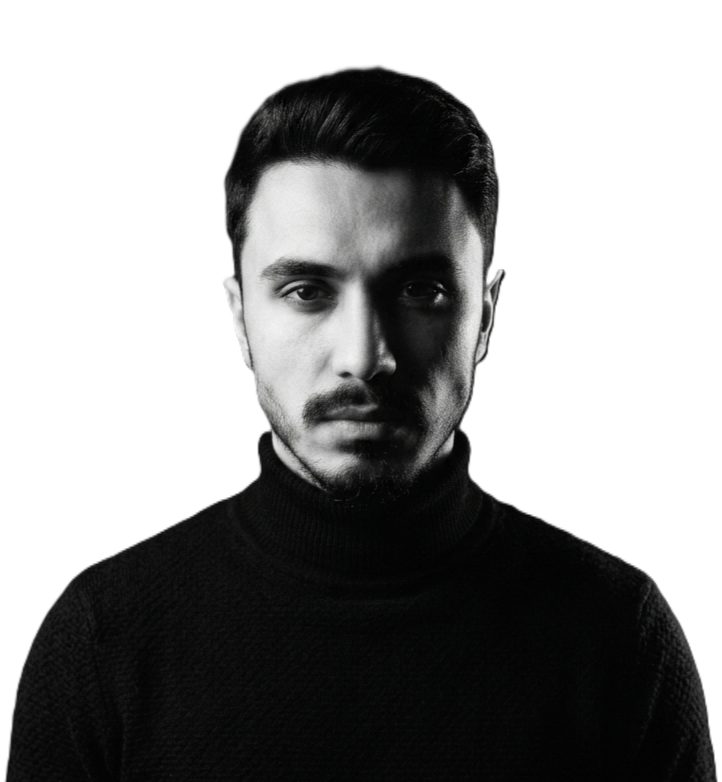
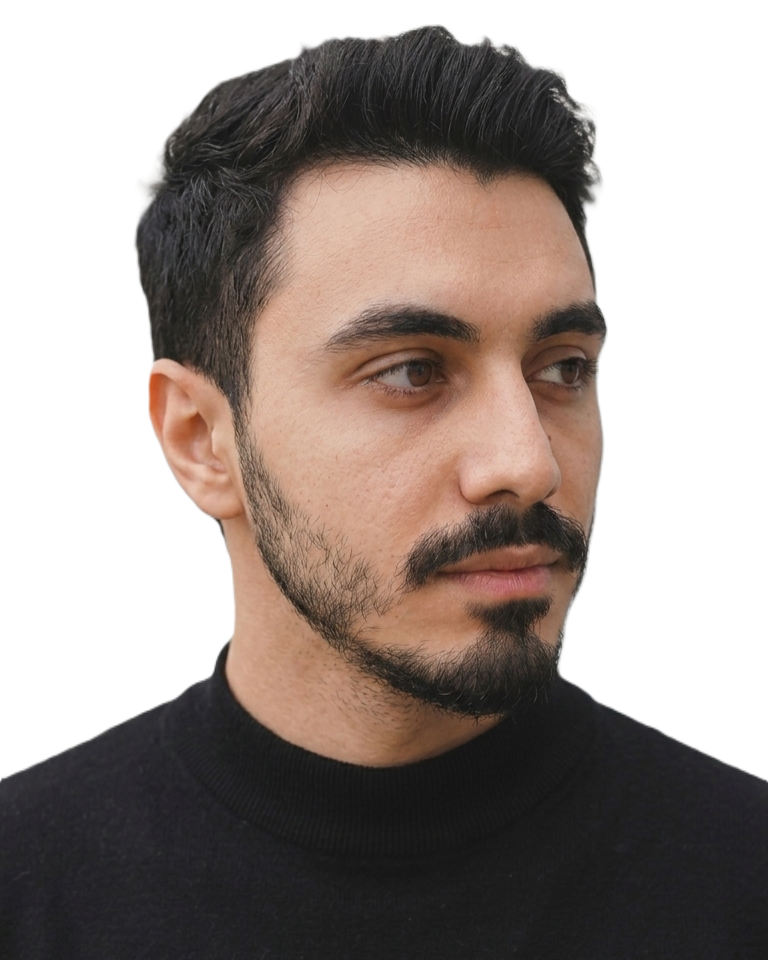
Corrigindo comentários no JavaScript

diff --git a/assets/js/script.js b/assets/js/script.js
@@ -3,12 +3,12 @@
   var reduce = !!(window.matchMedia && window.matchMedia('(prefers-reduced-motion: reduce)').matches);
   root.classList.add('js');
 
-  /* Links ainda sem destino não rolam a página para o topo */
+  // Links ainda sem destino não rolam a página para o topo
   Array.prototype.forEach.call(document.querySelectorAll('a[href="#"]'), function (a) {
     a.addEventListener('click', function (e) { e.preventDefault(); });
   });
 
-  /* Efeito de digitar e apagar */
+  // Efeito de digitar e apagar
   var typed = document.getElementById('typed');
   var phrases = ['Desenvolvedor Back-end.', 'Computação em nuvem.', 'Transformando sistemas.'];
   var pi = 0, ci = phrases[0].length, deleting = true;
@@ -23,7 +23,7 @@
   }
   if (typed && !reduce) { setTimeout(tick, 2200); }
 
-  /* Atraso escalonado nos grupos de cards */
+  // Atraso escalonado nos grupos de cards
   Array.prototype.forEach.call(document.querySelectorAll('[data-stagger]'), function (group) {
     var step = parseFloat(group.getAttribute('data-stagger')) || 0.09;
     Array.prototype.forEach.call(group.children, function (child, i) {
@@ -31,7 +31,7 @@
     });
   });
 
-  /* Revelação ao rolar */
+  // Revelação ao rolar
   var items = document.querySelectorAll('[data-reveal]');
   if (reduce || !('IntersectionObserver' in window)) {
     Array.prototype.forEach.call(items, function (el) { el.classList.add('is-in'); });
@@ -44,7 +44,7 @@
     Array.prototype.forEach.call(items, function (el) { io.observe(el); });
   }
 
-  /* Projetos extras */
+  // Projetos extras
   var more = document.getElementById('more-projects');
   var toggle = document.getElementById('toggle-projects');
   var label = document.getElementById('toggle-label');
@@ -73,7 +73,7 @@
     }
   });
 
-  /* Menu no celular */
+  // Menu no celular
   var header = document.getElementById('header');
   var menuBtn = document.getElementById('menu-btn');
   var nav = document.getElementById('nav');
@@ -87,7 +87,7 @@
   var links = Array.prototype.slice.call(nav.querySelectorAll('a'));
   links.forEach(function (a) { a.addEventListener('click', function () { setMenu(false); }); });
 
-  /* Link ativo conforme a seção visível */
+  // Link ativo conforme a seção visível
   if ('IntersectionObserver' in window) {
     var so = new IntersectionObserver(function (entries) {
       entries.forEach(function (e) {
@@ -102,7 +102,7 @@
     });
   }
 
-  /* Efeitos ligados ao scroll: barra de progresso, cabeçalho, faixa e brilho do hero */
+  // Efeitos ligados ao scroll: barra de progresso, cabeçalho, faixa e brilho do hero
   var lastY = window.scrollY || 0, ticking = false;
   function update() {
     var y = window.scrollY || 0;
@@ -123,7 +123,7 @@
   window.addEventListener('resize', update);
   update();
 
-  /* Brilho que acompanha o cursor nos cards */
+  // Brilho que acompanha o cursor nos cards
   Array.prototype.forEach.call(document.querySelectorAll('.card, .mini'), function (el) {
     el.addEventListener('pointermove', function (e) {
       var r = el.getBoundingClientRect();
@@ -131,11 +131,4 @@
       el.style.setProperty('--my', (e.clientY - r.top) + 'px');
     });
   });
-
-  /* Parallax do orb do hero */
-  const orb = document.querySelector('.hero-orb');
-  function updateOrb(x, y) {
-    // Sempre parte do ponto central (-50%, -50%)
-    orb.style.transform = `translate(calc(-50% + ${x}px), calc(-50% + ${y}px))`;
-  }
 })();

diff --git a/assets/css/style.css b/assets/css/style.css
@@ -74,7 +74,7 @@ a{color:inherit;text-decoration:none}
 .icon{width:1.25rem;height:1.25rem;fill:none;stroke:currentColor;stroke-width:1.7;stroke-linecap:round;stroke-linejoin:round;flex:none}
 .wrap{width:100%;max-width:var(--container);margin-inline:auto;padding-inline:var(--gutter)}
 
-/* ---------- Revelação ao rolar ---------- */
+/* Revelação ao rolar */
 .js [data-reveal]{
   opacity:0;
   translate:0 2rem;
@@ -94,7 +94,7 @@ a{color:inherit;text-decoration:none}
 .js .mask__inner{translate:0 110%;transition:translate 1.1s var(--ease) var(--d,0s)}
 .js [data-reveal].is-in .mask__inner{translate:none}
 
-/* ---------- Cabeçalho ---------- */
+/* Cabeçalho */
 .header{
   position:fixed;top:0;left:0;right:0;z-index:1000;
   padding-top:env(safe-area-inset-top,0px);
@@ -106,8 +106,6 @@ a{color:inherit;text-decoration:none}
   -webkit-backdrop-filter:blur(14px);backdrop-filter:blur(14px);
   border-bottom-color:var(--color-border);
 }
-
-/* .header.is-hidden{transform:translateY(-100%)} */
 
 .header__bar{display:flex;align-items:center;justify-content:space-between;height:var(--header-h);gap:1rem}
 .brand{display:inline-flex;align-items:center;gap:.75rem;font-family:var(--font-display);font-weight:600;font-size:1rem}
@@ -144,7 +142,7 @@ a{color:inherit;text-decoration:none}
   .nav a:hover::after,.nav a.is-active::after{transform:scaleX(1)}
 }
 
-/* ---------- Botões ---------- */
+/* Botões */
 .btn{
   display:inline-flex;align-items:center;gap:.75rem;cursor:pointer;
   padding:.95rem 1.7rem;border-radius:var(--radius-pill);
@@ -163,7 +161,7 @@ a{color:inherit;text-decoration:none}
 .btn--ghost:hover{background:var(--color-accent-strong);border-color:var(--color-accent-strong)}
 .btn[aria-expanded="true"] .icon--chevron{transform:rotate(180deg)}
 
-/* ---------- Início ---------- */
+/* Início */
 .hero{
   position:relative;overflow:clip;
   padding-top:calc(var(--header-h) + clamp(2.5rem,7vw,5.5rem));
@@ -225,7 +223,7 @@ a{color:inherit;text-decoration:none}
   100%{box-shadow:0 0 0 .7rem transparent}
 }
 
-/* ---------- Seções ---------- */
+/* Seções */
 .section{position:relative;padding-block:var(--section-space)}
 .section--alt{background:var(--color-surface);border-block:1px solid var(--color-border)}
 .section__head{
@@ -266,8 +264,6 @@ a{color:inherit;text-decoration:none}
   background:var(--gradient-accent);transform:scaleX(0);transform-origin:0 50%;
   transition:transform .6s var(--ease);
 }
-
-/* .card:hover::after{transform:scaleX(1)} */
 
 .card--text{display:flex;flex-direction:column;gap:.9rem;padding:1.9rem}
 .card h3,.mini h3{font-family:var(--font-display);font-weight:600;font-size:var(--fs-h3);line-height:1.25}
@@ -341,7 +337,7 @@ a{color:inherit;text-decoration:none}
 .footer__row a:hover{color:var(--color-accent)}
 .footer__row .icon{width:1rem;height:1rem}
 
-/* ---------- Responsivo ---------- */
+/* Responsivo */
 @media (max-width:980px){
   .grid-4{grid-template-columns:repeat(2,minmax(0,1fr))}
 }
@@ -370,7 +366,7 @@ a{color:inherit;text-decoration:none}
   .email{grid-column: 2/4;}
 }
 
-/* ---------- Menos movimento ---------- */
+/* Menos movimento */
 @media (prefers-reduced-motion:reduce){
   html{scroll-behavior:auto}
   .js [data-reveal],.js [data-reveal].is-in{opacity:1;translate:none;scale:1;transition:none}

diff --git a/index.html b/index.html
@@ -42,7 +42,7 @@
             <div class="hero__media" data-reveal="scale" style="--d:.2s">
                 <div class="photo">
                     <div class="photo__frame">
-                        <img src="./assets/images/perfil2.png" alt="perfil">
+                        <img src="./assets/images/perfil.png" alt="perfil">
                     </div>
                 </div>
             </div>
